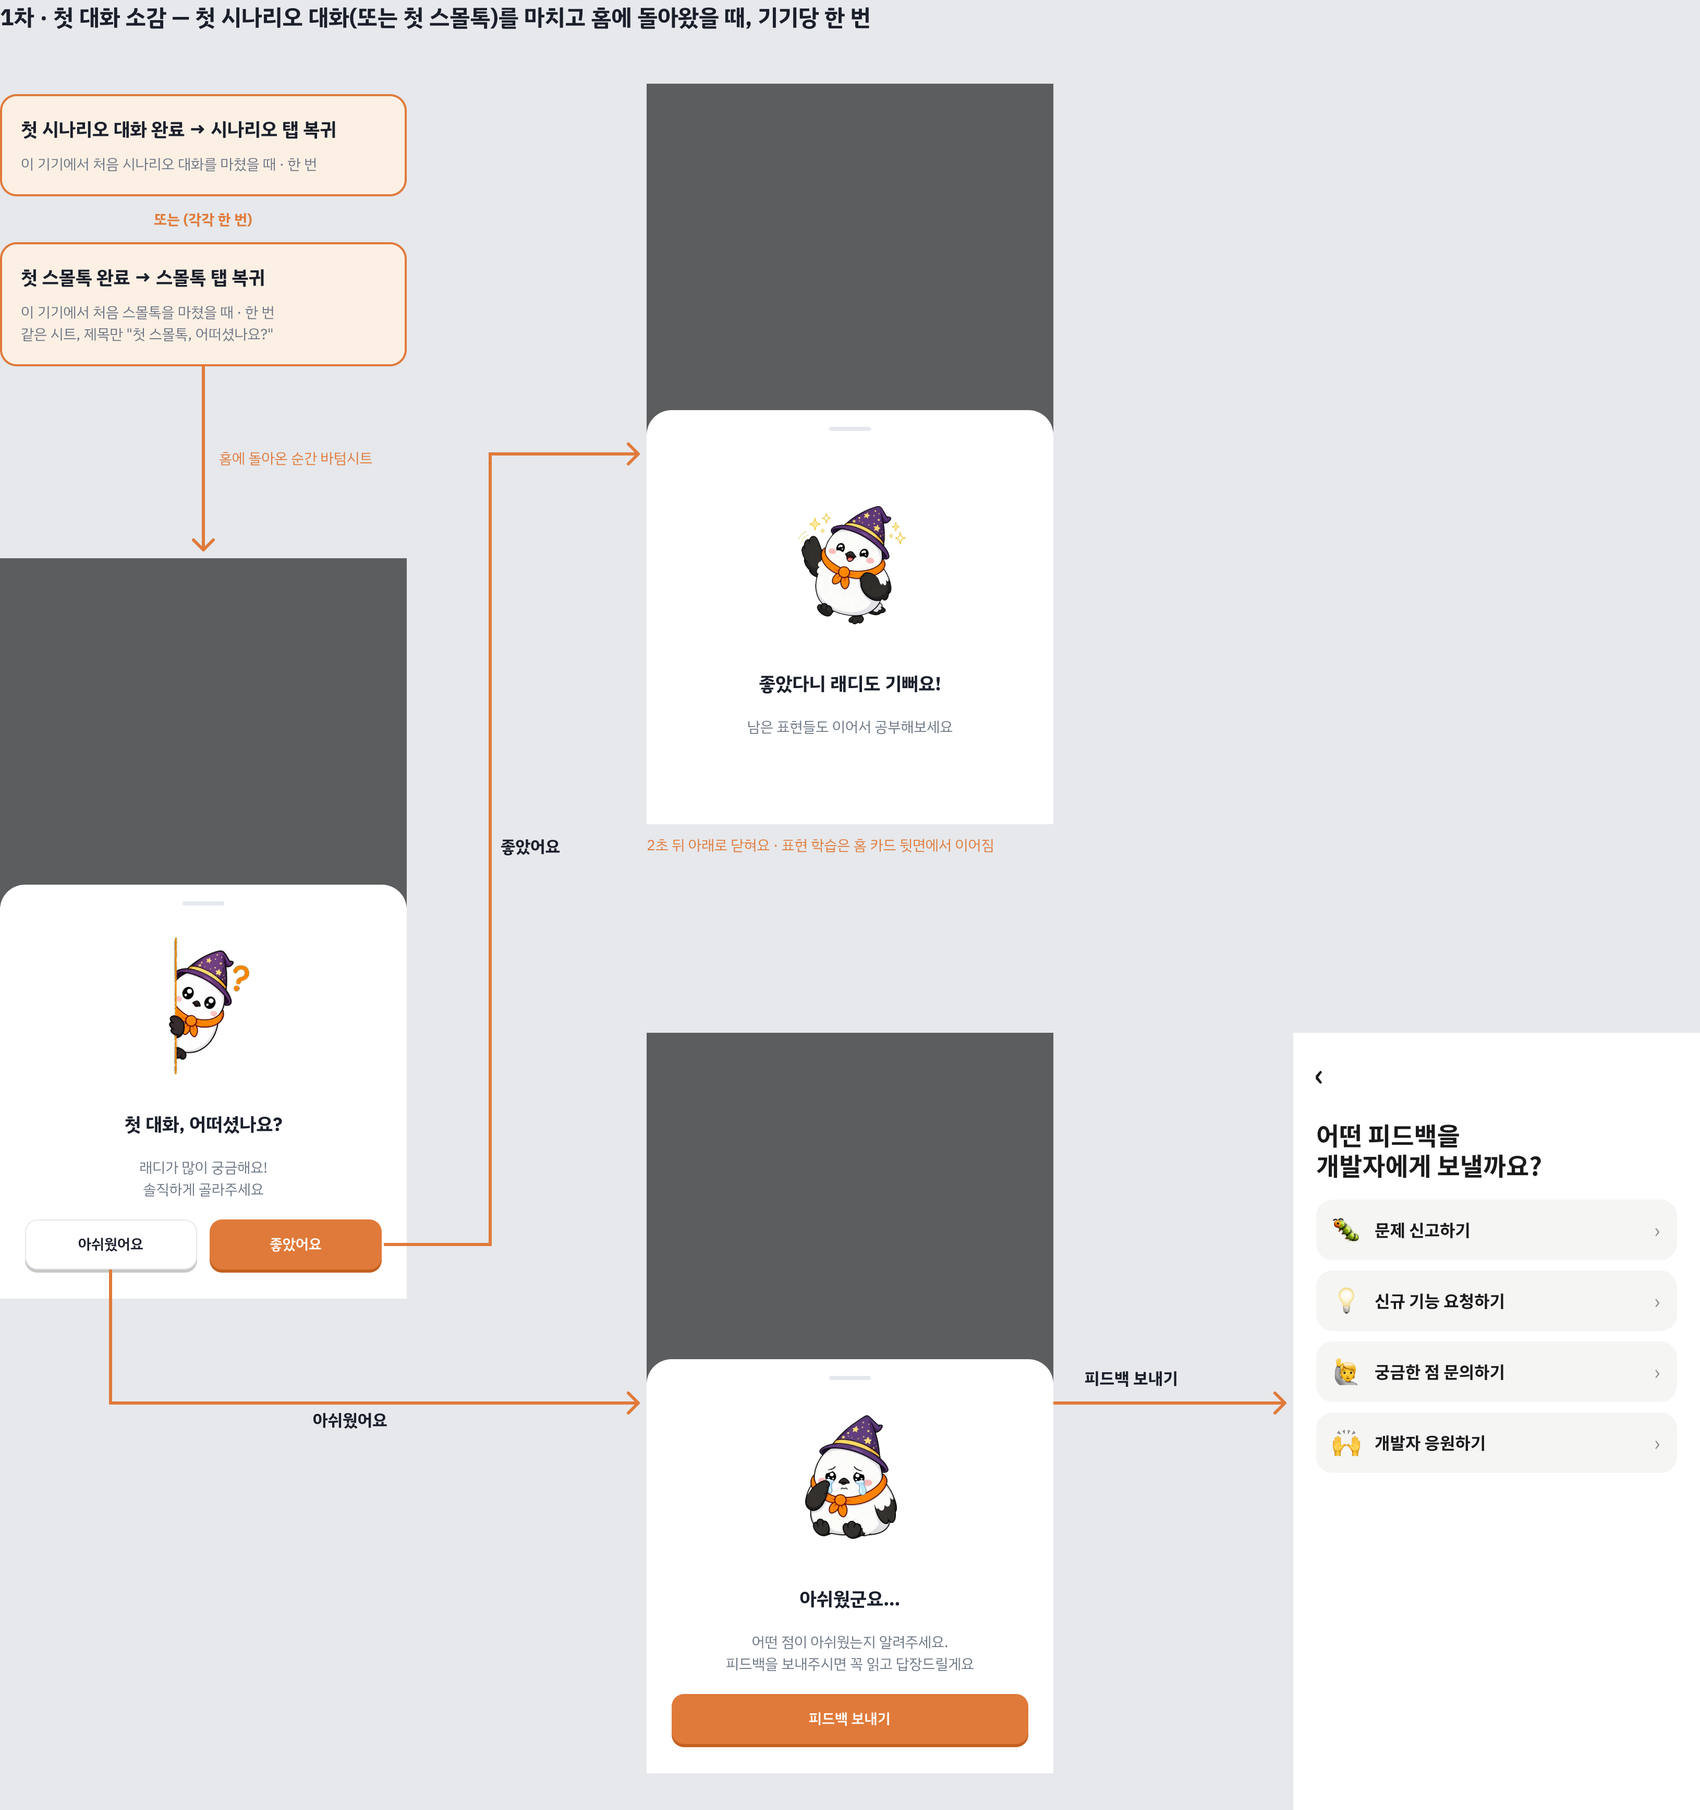
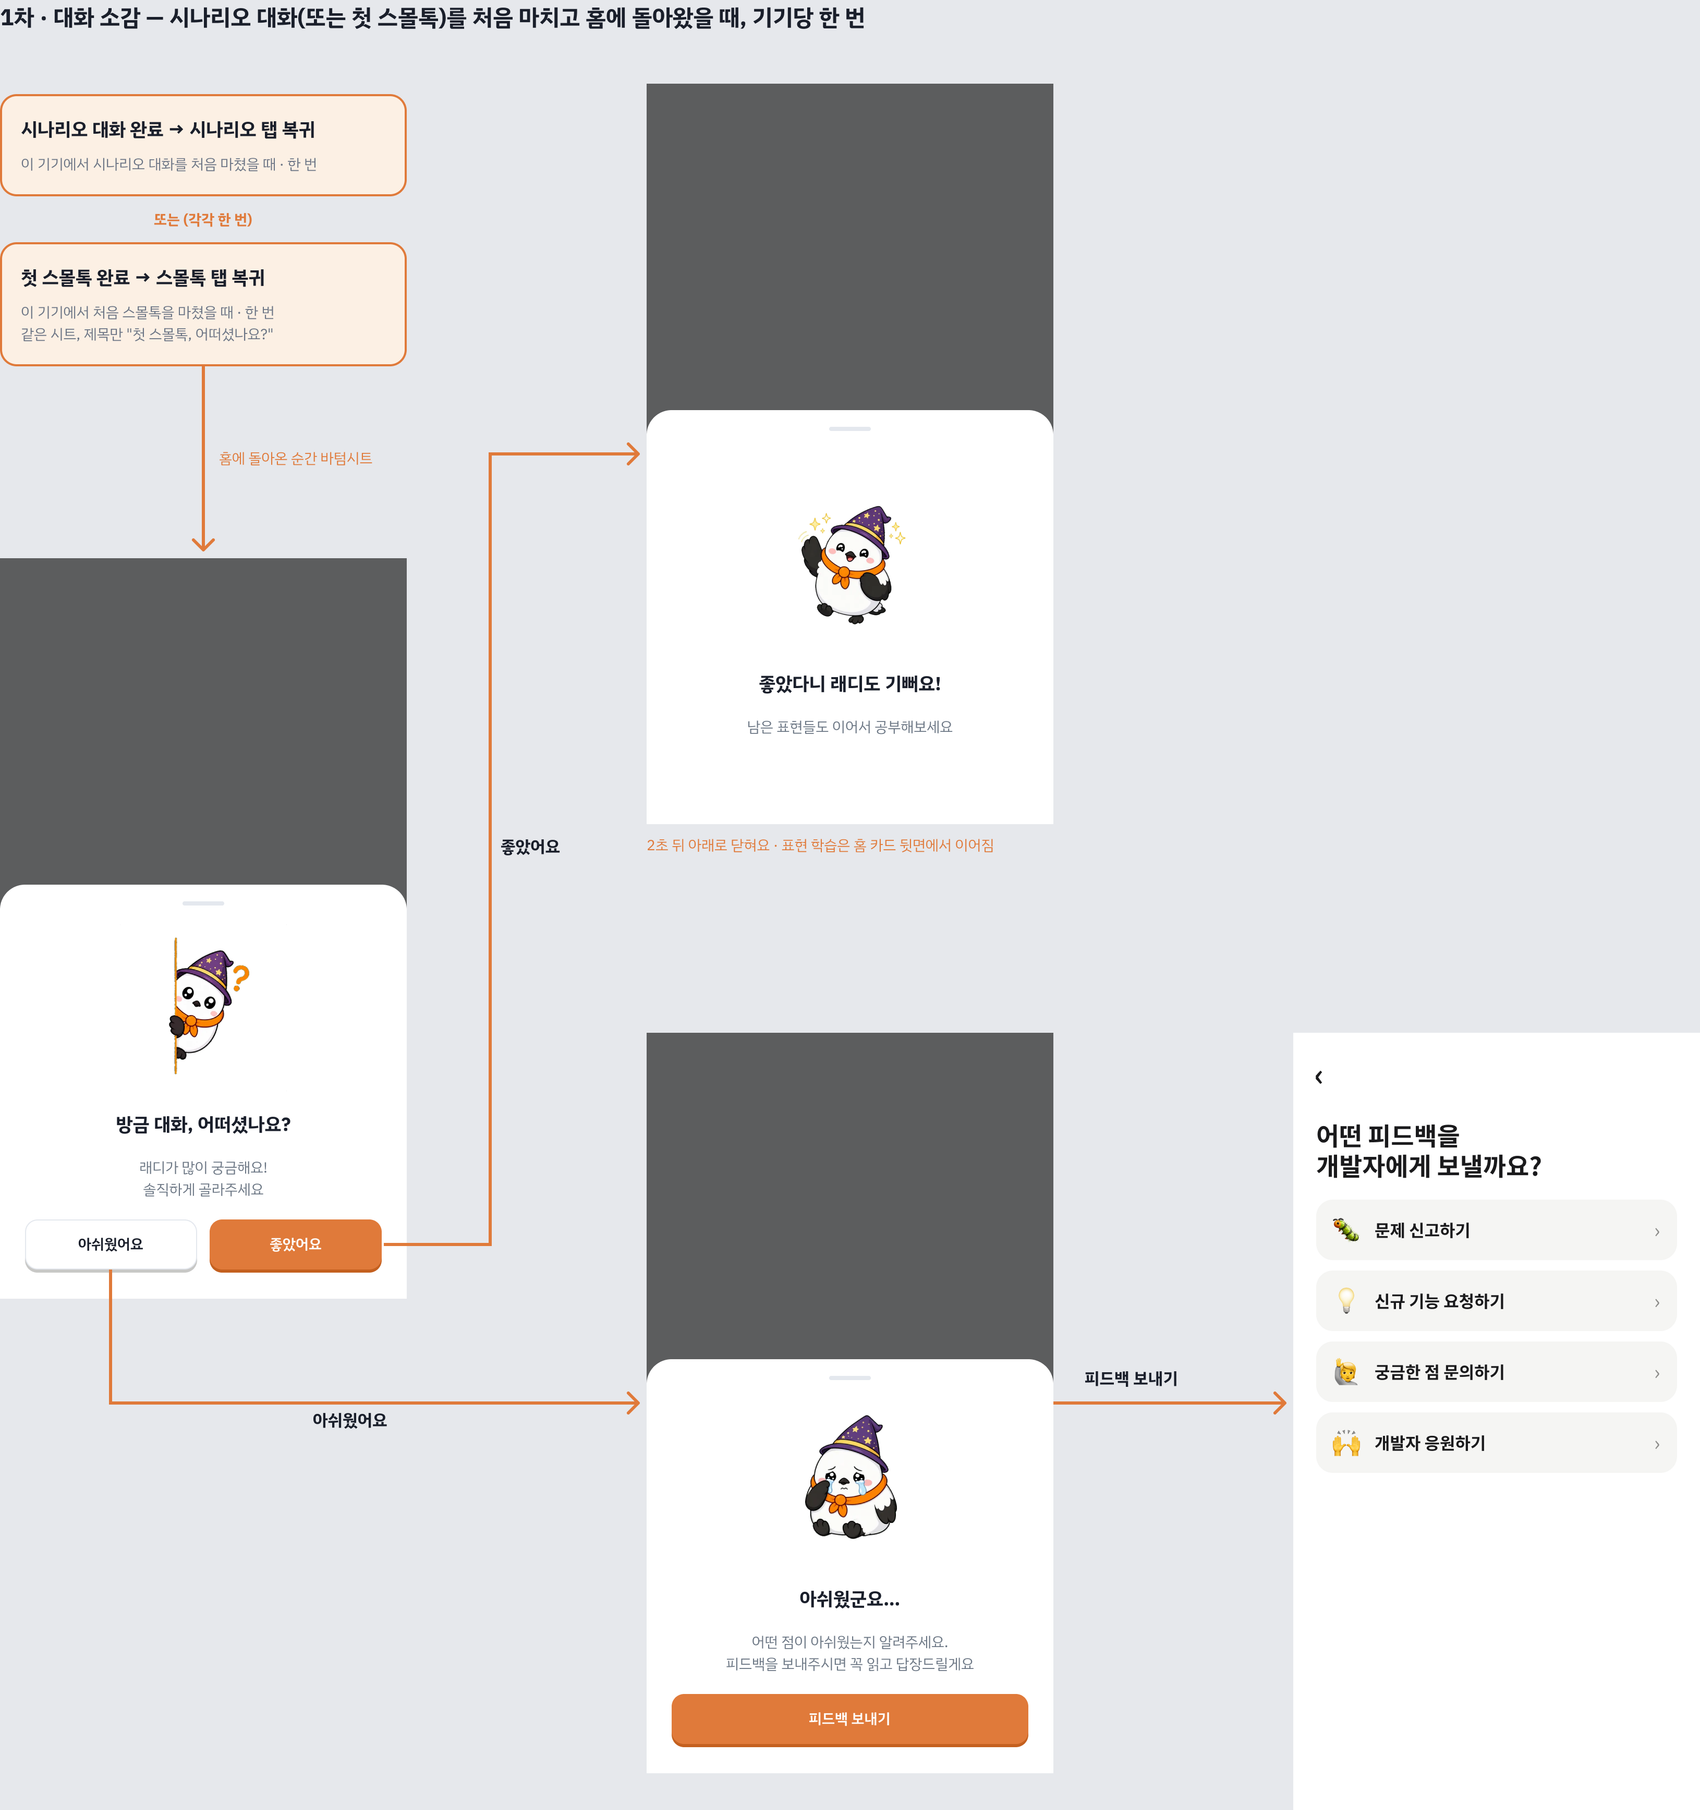
fix(web): 소감 시트 제목을 첫 대화가 아니라 방금 대화로 묻는다
배포 전부터 쓰던 사람은 로컬에 기록이 없어 이번이 첫 대화가 아닌데도 첫 대화로 물어보게 된다.
누구에게나 맞는 말이 되도록 시나리오 쪽은 방금 대화로, 랜딧 소감의 본문도 두 번째라고 단정하지 않게 바꾼다.
스몰톡은 기능 자체가 최근이라 첫 스몰톡 그대로 둔다.

Changed region(s): [[0.0312, 0.0, 0.53, 0.0309], [0.0312, 0.0619, 0.1871, 0.0928], [0.0624, 0.6188, 0.1559, 0.6497]]

diff --git a/apps/web/src/features/satisfaction/ui/SatisfactionSheet.tsx b/apps/web/src/features/satisfaction/ui/SatisfactionSheet.tsx
@@ -1,7 +1,8 @@
 'use client';
 
 // 소감 바텀시트 — 묻기(ask) → 답에 따라 감사(thanks)·피드백 안내(letter)·별점판(review)으로 같은 시트 안에서 말만 바꾼다.
-// 첫 소감(scenario·smalltalk)은 좋았어요 → 감사, 랜딧 소감(app)은 잘 쓰고 있어요 → 별점판으로 간다
+// 대화 소감(scenario·smalltalk)은 좋았어요 → 감사, 랜딧 소감(app)은 잘 쓰고 있어요 → 별점판으로 간다.
+// 시나리오 쪽 제목이 "첫 대화"가 아니라 "방금 대화"인 건, 배포 전부터 쓰던 사람에겐 첫 대화가 아니어서다
 import type { SatisfactionMoment } from '@landit/analytics';
 
 import { BottomSheet } from '@/shared/ui/BottomSheet';
@@ -58,7 +59,7 @@ const faceOf = (moment: SatisfactionMoment, view: SatisfactionView): Face => {
     return {
       image: PEEK_RIGHT,
       title: '랜딧, 잘 사용하고 계신가요?',
-      body: '두 번째 대화까지 마치셨네요!\n솔직하게 알려주세요',
+      body: '오늘도 대화 하나 마치셨네요!\n솔직하게 알려주세요',
       bad: '아쉬워요',
       good: '잘 쓰고 있어요',
     };
@@ -81,7 +82,7 @@ const faceOf = (moment: SatisfactionMoment, view: SatisfactionView): Face => {
     title:
       moment === 'smalltalk'
         ? '첫 스몰톡, 어떠셨나요?'
-        : '첫 대화, 어떠셨나요?',
+        : '방금 대화, 어떠셨나요?',
     body: '래디가 많이 궁금해요!\n솔직하게 골라주세요',
     bad: '아쉬웠어요',
     good: '좋았어요',

diff --git a/apps/web/src/features/satisfaction/ui/SatisfactionGate.test.tsx b/apps/web/src/features/satisfaction/ui/SatisfactionGate.test.tsx
@@ -40,7 +40,7 @@ afterEach(() => {
   vi.useRealTimers();
 });
 
-const ASK = '첫 대화, 어떠셨나요?';
+const ASK = '방금 대화, 어떠셨나요?';
 
 describe('SatisfactionGate', () => {
   it('대화를 마친 기록이 없으면 아무것도 띄우지 않는다', () => {
@@ -49,7 +49,7 @@ describe('SatisfactionGate', () => {
     expect(screen.queryByText(ASK)).not.toBeInTheDocument();
   });
 
-  it('첫 대화를 마치고 왔으면 소감 시트를 띄우고 노출을 계측한다', () => {
+  it('대화를 마치고 왔으면 소감 시트를 띄우고 노출을 계측한다', () => {
     markTalkCompleted('scenario');
 
     render(<SatisfactionGate moment="scenario" />);
